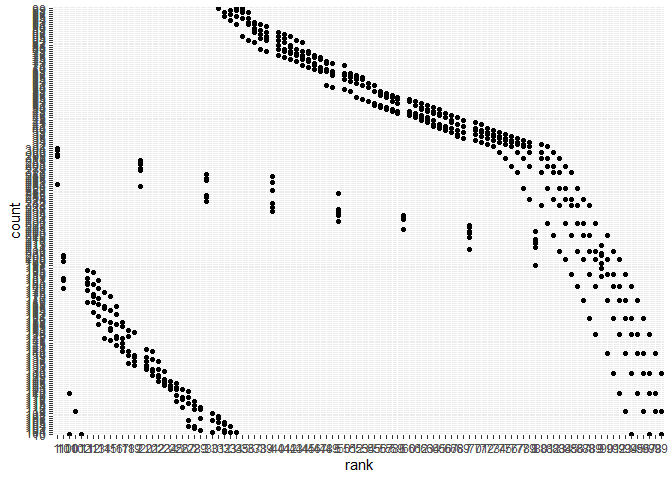
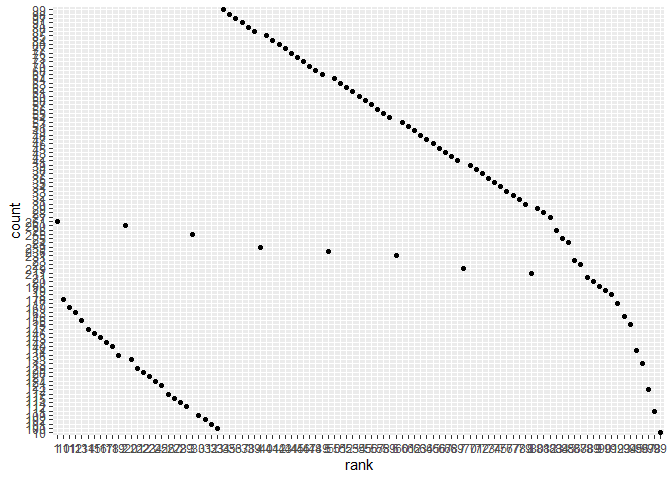
fixing inline code to actually be inline code. filtering scatterplot additionally.

diff --git a/Homework2.md b/Homework2.md
@@ -51,35 +51,17 @@ precip_17_18 =
   - What was the total precipitation in 2018?
   - What was the median number of sports balls in a dumpster in 2017?
 
-<!-- end list -->
-
-``` r
-# The number of observations in the precipitation dataset is
-nrow(precip_17_18)
-```
-
-    ## [1] 24
-
-``` r
-# The number of observations in the Mr Trashwheel dataset is
-nrow(Mr_TW)
-```
-
-    ## [1] 344
-
-``` r
-# The total precipitation in 2018 was
-sum((pull(precip_18, total)))
-```
-
-    ## [1] 70.33
-
-``` r
-# The median number of sports balls in a dumpster in 2017 was
-median(pull(Mr_TW %>% filter(year == 2017), sports_balls))
-```
-
-    ## [1] 8
+The Mr Trashwheel dataset includes information about trash filtered
+through the adorable googly-eyed trash wheel in the Baltimore Harbor. It
+also includes information about precipitation levels (because they
+affect the amount of trash coming through). Key variables include
+“total” for the total precipitation, as well as variables describing
+the trash contents (for example “sports\_balls”). The number of
+observations in the precipitation dataset is 24. The number of
+observations in the Mr Trashwheel dataset is 344. The total
+precipitation in 2018 was 70.33. The median number of sports balls in a
+dumpster in 2017 was
+8
 
 ### Problem 2
 
@@ -245,7 +227,7 @@ baby_name %>%
 
 ``` r
 baby_name %>%
-  filter(ethnicity == "WHITE NON HISPANIC", gender == "MALE") %>%
+  filter(ethnicity == "WHITE NON HISPANIC", gender == "MALE", year == 2016) %>%
   ggplot(aes(x = rank, y = count)) + 
   geom_point()
 ```
